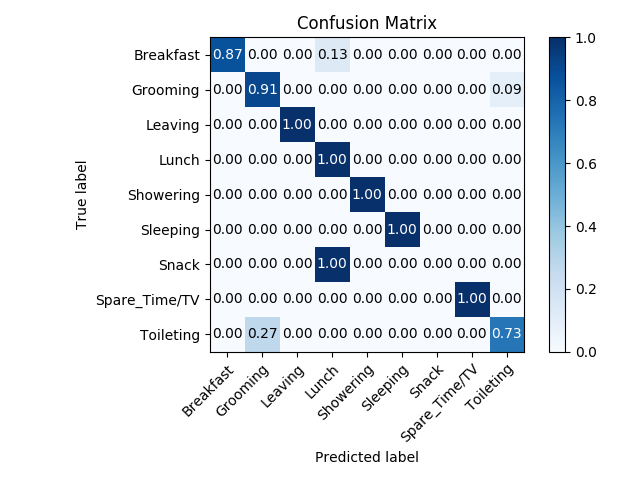
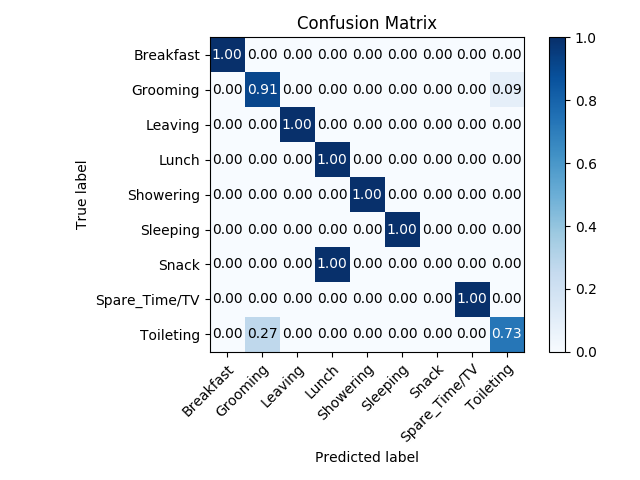
managed a problem with division in train/test set

Changed region(s): [[0.4688, 0.0625, 0.5625, 0.1562], [0.3125, 0.0625, 0.4062, 0.1562]]

diff --git a/Code/ModelRating.py b/Code/ModelRating.py
@@ -37,9 +37,9 @@ def getCorrectActivitySequence(home, stage):
     if (stage == 'test'):
         #test samples
         lim = floor(len(activity)*0.7)
-        print("{:<33}{:>4}".format("LIM VALUE FROM CORRECT ACTIVITY: ", len(activity)- 1 - lim+1))
+        print("{:<33}{:>4}".format("LIM VALUE FROM CORRECT ACTIVITY: ", len(activity) - lim))
         print("")
-        return np.array([activity[lim+1:len(activity)-1]])
+        return np.array([activity[lim:len(activity)]])
     else:
         return np.array([activity])
 
@@ -80,7 +80,7 @@ def getAction(home, stage):
         #test samples
         lim = floor(len(actionSequence)*0.7)
         print("{:<33}{:>4}".format("LIM VALUE FROM CORRECT ACTION: ", len(actionSequence)- 1 - lim+1))
-        return np.array([actionSequence[lim+1:len(actionSequence)-1]])
+        return np.array([actionSequence[lim:len(actionSequence)]])
     else:
         return np.array([actionSequence])
 
@@ -151,7 +151,7 @@ def modelRating(model, actionObserved, correctActivity, matrixSize, targetActivi
         postery.append(decision[0])
         confusionMatrix[correctActivity[0][activity]][decision[0]] += 1
 
-    # plotConfusionMatrix(correctActivity[0], postery, targetActivityName, False, "Confusion Matrix")
+    # plotConfusionMatrix(correctActivity[0], postery, targetActivityName, True, "Confusion Matrix")
 
     print("CONFUSION MATRIX")
     print(confusionMatrix)

diff --git a/Code/ComputeMatrix.py b/Code/ComputeMatrix.py
@@ -52,7 +52,7 @@ def calculateT(csv_file, test):
 			# print('first')
 			prev = activity
 		else:	
-			T[my_dict[prev], my_dict[activity]] +=1
+			T[my_dict[prev], my_dict[activity]] += 1
 			times[0, my_dict[prev]] += 1
 			prev = activity
 	# print(sor)
@@ -165,6 +165,7 @@ def calculateO(csv_file, test):
 	for i in range(0, lim):
 		O[my_dict[activity_column[i]], my_dict_oss[oss[i]]] +=1
 		times[0, my_dict[activity_column[i]]] += 1 
+
 		
 	# print(sor)
 	# print(O)
